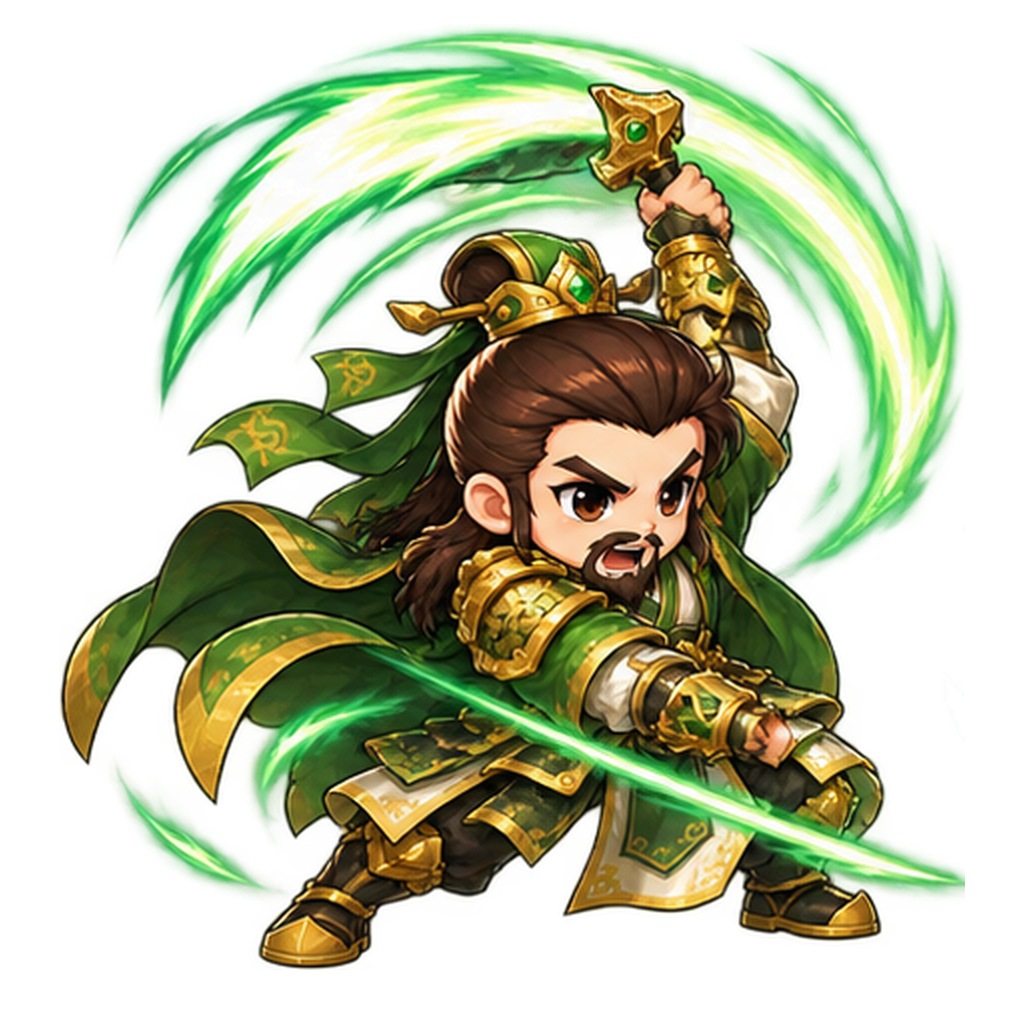
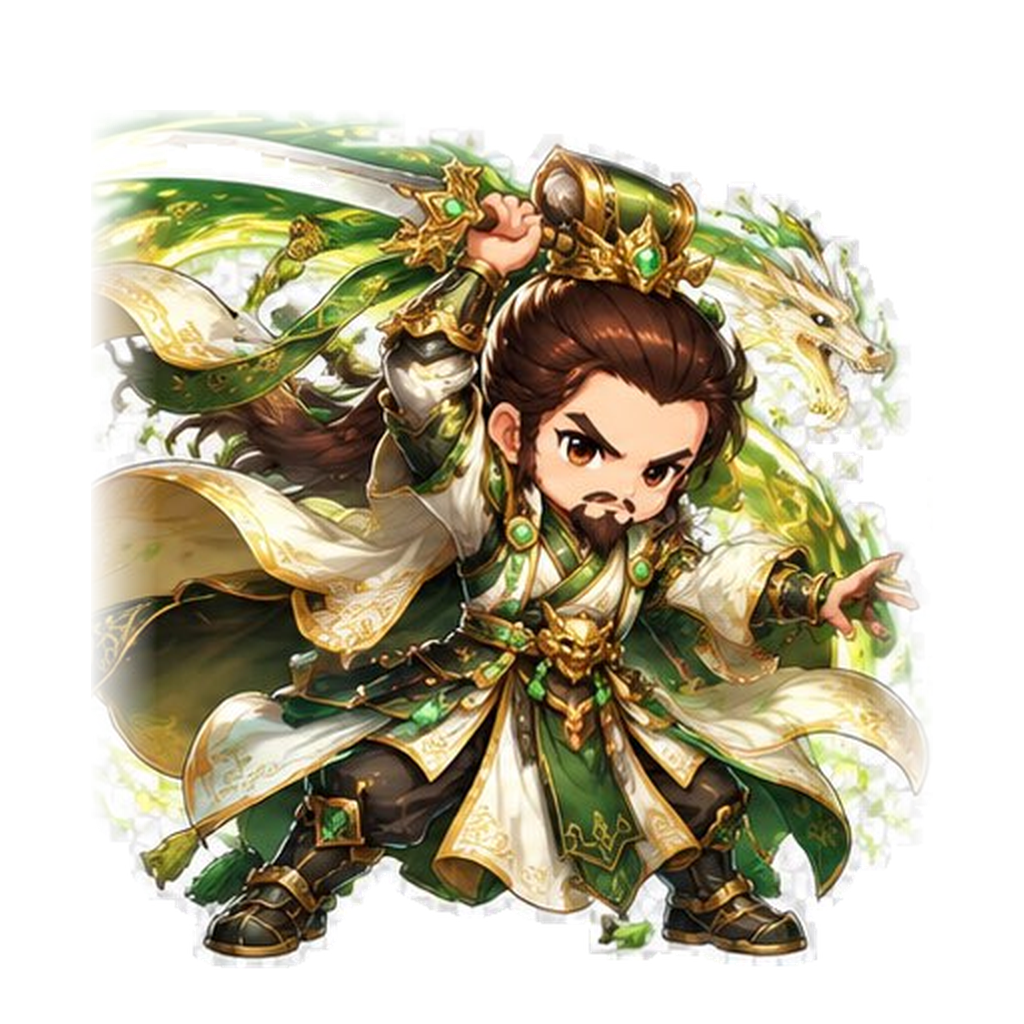
Add Wei strategist animations and refresh Liu Bei art

diff --git a/js/data.js b/js/data.js
@@ -26,5 +26,5 @@ const LEVEL_PACING={
 Object.values(LEVELS).forEach(level=>Object.assign(level,LEVEL_PACING[level.level]));
 const SHU_ATTACK_FRAME_DURATIONS=[80,80,80,80,90,90,90,90];
 const shuAttackFrames=key=>Array.from({length:8},(_,index)=>`assets/characters/future-generals/${key}/attack-${String(index).padStart(2,'0')}.webp`);
-const PLANT_TYPES={peashooter:{name:'蜀軍弓兵',cost:100,emoji:'🏹',asset:'assets/characters/shu-archer.webp',hp:120,rate:1500,damage:22,range:9,cooldown:5200,desc:'基礎遠程射箭'},sunflower:{name:'軍糧官',cost:50,emoji:'🌾',asset:'assets/characters/quartermaster-strategist.webp',hp:90,rate:8500,produce:25,cooldown:4200,desc:'週期補充軍糧'},wallnut:{name:'盾將',cost:50,emoji:'🛡',asset:'assets/characters/shield-general.webp',hp:420,cooldown:7000,desc:'高血量阻擋'},firepea:{name:'關羽火焰將',cost:175,emoji:'🔥',asset:'assets/characters/guanyu-fire-general.webp',battleAsset:'assets/characters/future-generals/guanyu/idle.webp',hp:120,rate:1250,damage:42,range:9,fire:true,cooldown:9500,attackFrames:Array.from({length:8},(_,index)=>`assets/characters/future-generals/guanyu/attack-${String(index).padStart(2,'0')}.webp`),attackFrameDurations:[90,80,100,65,90,65,80,110],attackHitAt:335,desc:'青龍火斬高傷害'},potato:{name:'伏兵',cost:25,emoji:'🥷',asset:'assets/characters/ambush-scout.webp',hp:60,armedAfter:4500,damage:260,cooldown:8500,desc:'延遲啟動突襲陷阱'},zhangfei:{name:'鬥神張飛',cost:225,emoji:'⚔',asset:'assets/characters/future-generals/god-zhangfei.webp',battleAsset:'assets/characters/future-generals/zhangfei/idle.webp',hp:560,rate:2300,damage:62,range:1.15,knockback:1,cooldown:13000,attackFrames:shuAttackFrames('zhangfei'),attackFrameDurations:SHU_ATTACK_FRAME_DURATIONS,attackHitAt:320,desc:'高防高攻，近戰反推一格'},zhaoyun:{name:'寒冰趙雲',cost:175,emoji:'❄',asset:'assets/characters/future-generals/ice-zhaoyun.webp',battleAsset:'assets/characters/future-generals/zhaoyun/idle.webp',hp:210,rate:1350,damage:18,meleeDamage:48,range:9,slow:true,cooldown:10000,attackFrames:Array.from({length:8},(_,index)=>`assets/characters/future-generals/zhaoyun/attack-${String(index).padStart(2,'0')}.webp`),attackFrameDurations:[90,80,100,65,90,65,80,120],attackHitAt:335,desc:'遠程緩速，近距離高傷'},machao:{name:'穿刺馬超',cost:200,emoji:'🗡',asset:'assets/characters/future-generals/pierce-machao.webp',battleAsset:'assets/characters/future-generals/machao/idle.webp',hp:250,rate:1800,damage:78,range:3.1,pierce:true,cooldown:11000,attackFrames:shuAttackFrames('machao'),attackFrameDurations:SHU_ATTACK_FRAME_DURATIONS,attackHitAt:320,desc:'三格穿刺，可同時打多人'},huangzhong:{name:'百箭黃忠',cost:200,emoji:'🏹',asset:'assets/characters/future-generals/hundred-arrows-huangzhong.webp',battleAsset:'assets/characters/future-generals/huangzhong/idle.webp',hp:150,rate:1900,damage:22,range:9,tripleShot:true,cooldown:11500,attackFrames:shuAttackFrames('huangzhong'),attackFrameDurations:SHU_ATTACK_FRAME_DURATIONS,attackHitAt:320,desc:'一次射三排'},kongming:{name:'軍神孔明',cost:250,emoji:'🌪',asset:'assets/characters/future-generals/war-god-kongming.webp',battleAsset:'assets/characters/future-generals/kongming/idle.webp',hp:1,oneUse:'global',damage:150,cooldown:15000,attackFrames:shuAttackFrames('kongming'),attackFrameDurations:SHU_ATTACK_FRAME_DURATIONS,attackHitAt:320,desc:'全地圖一次性高輸出'},pangtong:{name:'火神龐統',cost:175,emoji:'🔥',asset:'assets/characters/future-generals/fire-god-pangtong.webp',battleAsset:'assets/characters/future-generals/pangtong/idle.webp',hp:1,oneUse:'row',damage:230,cooldown:12000,attackFrames:shuAttackFrames('pangtong'),attackFrameDurations:SHU_ATTACK_FRAME_DURATIONS,attackHitAt:320,desc:'三列火攻一次性高輸出'},liubei:{name:'仁德劉備',cost:300,emoji:'👑',asset:'assets/characters/future-generals/liubei/liubei-main.webp',battleAsset:'assets/characters/future-generals/liubei/idle.webp',guideAsset:'assets/characters/future-generals/liubei/liubei-guide.webp',actionAsset:'assets/characters/future-generals/liubei/liubei-rally.webp',hp:330,rate:1800,damage:0,range:9,summon:true,summonRate:6500,cooldown:16000,attackFrames:shuAttackFrames('liubei'),attackFrameDurations:SHU_ATTACK_FRAME_DURATIONS,attackHitAt:320,desc:'普通攻擊召喚一名鄉勇；超級技能召喚上、中、下三路白毦禁衛'},swordSoldier:{name:'蜀軍鄉勇',cost:0,emoji:'⚔',asset:'assets/characters/ambush-scout.webp',hp:95,damage:18,rate:900,range:.55,speed:.018,hidden:true,desc:'劉備普通攻擊召喚的綠衣輕裝兵'},whiteFeatherGuard:{name:'白毦禁衛',cost:0,emoji:'🛡',asset:'assets/characters/shield-general.webp',hp:230,damage:42,rate:750,range:.8,speed:.014,hidden:true,elite:true,desc:'劉備超級技能召喚的紅金重甲精銳盾兵'}};
+const PLANT_TYPES={peashooter:{name:'蜀軍弓兵',cost:100,emoji:'🏹',asset:'assets/characters/shu-archer.webp',hp:120,rate:1500,damage:22,range:9,cooldown:5200,desc:'基礎遠程射箭'},sunflower:{name:'軍糧官',cost:50,emoji:'🌾',asset:'assets/characters/quartermaster-strategist.webp',hp:90,rate:8500,produce:25,cooldown:4200,desc:'週期補充軍糧'},wallnut:{name:'盾將',cost:50,emoji:'🛡',asset:'assets/characters/shield-general.webp',hp:420,cooldown:7000,desc:'高血量阻擋'},firepea:{name:'關羽火焰將',cost:175,emoji:'🔥',asset:'assets/characters/guanyu-fire-general.webp',battleAsset:'assets/characters/future-generals/guanyu/idle.webp',hp:120,rate:1250,damage:42,range:9,fire:true,cooldown:9500,attackFrames:Array.from({length:8},(_,index)=>`assets/characters/future-generals/guanyu/attack-${String(index).padStart(2,'0')}.webp`),attackFrameDurations:[90,80,100,65,90,65,80,110],attackHitAt:335,desc:'青龍火斬高傷害'},potato:{name:'伏兵',cost:25,emoji:'🥷',asset:'assets/characters/ambush-scout.webp',hp:60,armedAfter:4500,damage:260,cooldown:8500,desc:'延遲啟動突襲陷阱'},zhangfei:{name:'鬥神張飛',cost:225,emoji:'⚔',asset:'assets/characters/future-generals/god-zhangfei.webp',battleAsset:'assets/characters/future-generals/zhangfei/idle.webp',hp:560,rate:2300,damage:62,range:1.15,knockback:1,cooldown:13000,attackFrames:shuAttackFrames('zhangfei'),attackFrameDurations:SHU_ATTACK_FRAME_DURATIONS,attackHitAt:320,desc:'高防高攻，近戰反推一格'},zhaoyun:{name:'寒冰趙雲',cost:175,emoji:'❄',asset:'assets/characters/future-generals/ice-zhaoyun.webp',battleAsset:'assets/characters/future-generals/zhaoyun/idle.webp',hp:210,rate:1350,damage:18,meleeDamage:48,range:9,slow:true,cooldown:10000,attackFrames:Array.from({length:8},(_,index)=>`assets/characters/future-generals/zhaoyun/attack-${String(index).padStart(2,'0')}.webp`),attackFrameDurations:[90,80,100,65,90,65,80,120],attackHitAt:335,desc:'遠程緩速，近距離高傷'},machao:{name:'穿刺馬超',cost:200,emoji:'🗡',asset:'assets/characters/future-generals/pierce-machao.webp',battleAsset:'assets/characters/future-generals/machao/idle.webp',hp:250,rate:1800,damage:78,range:3.1,pierce:true,cooldown:11000,attackFrames:shuAttackFrames('machao'),attackFrameDurations:SHU_ATTACK_FRAME_DURATIONS,attackHitAt:320,desc:'三格穿刺，可同時打多人'},huangzhong:{name:'百箭黃忠',cost:200,emoji:'🏹',asset:'assets/characters/future-generals/hundred-arrows-huangzhong.webp',battleAsset:'assets/characters/future-generals/huangzhong/idle.webp',hp:150,rate:1900,damage:22,range:9,tripleShot:true,cooldown:11500,attackFrames:shuAttackFrames('huangzhong'),attackFrameDurations:SHU_ATTACK_FRAME_DURATIONS,attackHitAt:320,desc:'一次射三排'},kongming:{name:'軍神孔明',cost:250,emoji:'🌪',asset:'assets/characters/future-generals/war-god-kongming.webp',battleAsset:'assets/characters/future-generals/kongming/idle.webp',hp:1,oneUse:'global',damage:150,cooldown:15000,attackFrames:shuAttackFrames('kongming'),attackFrameDurations:SHU_ATTACK_FRAME_DURATIONS,attackHitAt:320,desc:'全地圖一次性高輸出'},pangtong:{name:'火神龐統',cost:175,emoji:'🔥',asset:'assets/characters/future-generals/fire-god-pangtong.webp',battleAsset:'assets/characters/future-generals/pangtong/idle.webp',hp:1,oneUse:'row',damage:230,cooldown:12000,attackFrames:shuAttackFrames('pangtong'),attackFrameDurations:SHU_ATTACK_FRAME_DURATIONS,attackHitAt:320,desc:'三列火攻一次性高輸出'},liubei:{name:'仁德劉備',cost:300,emoji:'👑',asset:'assets/characters/future-generals/liubei/liubei-main.webp',battleAsset:'assets/characters/future-generals/liubei/idle.webp',guideAsset:'assets/characters/future-generals/liubei/idle.webp',actionAsset:'assets/characters/future-generals/liubei/liubei-rally.webp',hp:330,rate:1800,damage:0,range:9,summon:true,summonRate:6500,cooldown:16000,attackFrames:shuAttackFrames('liubei'),attackFrameDurations:SHU_ATTACK_FRAME_DURATIONS,attackHitAt:320,desc:'普通攻擊召喚一名鄉勇；超級技能召喚上、中、下三路白毦禁衛'},swordSoldier:{name:'蜀軍鄉勇',cost:0,emoji:'⚔',asset:'assets/characters/ambush-scout.webp',hp:95,damage:18,rate:900,range:.55,speed:.018,hidden:true,desc:'劉備普通攻擊召喚的綠衣輕裝兵'},whiteFeatherGuard:{name:'白毦禁衛',cost:0,emoji:'🛡',asset:'assets/characters/shield-general.webp',hp:230,damage:42,rate:750,range:.8,speed:.014,hidden:true,elite:true,desc:'劉備超級技能召喚的紅金重甲精銳盾兵'}};
 const ZOMBIE_TYPES={normal:{name:'赤巾小屍',cost:50,emoji:'🧟',asset:'assets/characters/zombie-army/zombie-roster-v2/red-band-grunt.webp',hp:110,speed:.018,damage:18,range:.35,cooldown:3600,desc:'赤巾衝鋒的便宜基本兵'},cone:{name:'鐵盔小兵',cost:75,emoji:'🛡',asset:'assets/characters/zombie-army/zombie-roster-v2/iron-helmet-grunt.webp',hp:190,speed:.016,damage:18,range:.35,cooldown:5200,desc:'全身重甲，耐打的前排小兵'},bucket:{name:'巨槌阿蠻',cost:100,emoji:'👹',asset:'assets/characters/zombie-army/zombie-roster-v2/giant-mace-brute.webp',hp:290,speed:.013,damage:20,range:.35,cooldown:6500,desc:'揮舞骷髏巨槌的高血量壯漢'},football:{name:'白髮屍王',cost:200,emoji:'💀',asset:'assets/characters/zombie-army/zombie-roster-v2/white-haired-king.webp',hp:380,speed:.031,damage:34,range:.35,cooldown:11000,desc:'白髮王冠配魔刃，高速突擊菁英'},jester:{name:'鈴鐺丑屍',cost:225,emoji:'🃏',asset:'assets/characters/zombie-army/zombie-roster-v2/bell-jester.webp',hp:360,speed:.015,damage:26,range:.45,laugh:true,laughRate:5200,laughDamage:34,laughStun:2600,cooldown:12500,desc:'搖響鬼鈴狂笑，震懾同一路守方'},bombJester:{name:'爆爆桶屍',cost:250,emoji:'💣',asset:'assets/characters/zombie-army/zombie-roster-v2/bomb-carrier.webp',hp:340,speed:.014,damage:24,range:.45,bombDeath:true,bombDamage:220,bombRadius:1,cooldown:14500,desc:'背滿火藥桶，倒下後九宮格自爆'},corpseTitan:{name:'屍旗大胖',cost:325,emoji:'🏴☠',asset:'assets/characters/zombie-army/zombie-roster-v2/banner-titan.webp',hp:760,speed:.0095,damage:38,range:.58,siegeSmash:true,smashRate:2100,smashDamage:78,smashStun:1400,cooldown:19000,desc:'扛屍旗與巨槌，震碎九宮格防線'},fireCatapult:{name:'烈焰屍車',cost:350,emoji:'☄',asset:'assets/characters/zombie-army/zombie-roster-v2/flame-catapult.webp',hp:620,speed:.0075,damage:24,range:.45,catapult:true,catapultRange:8,catapultRate:3600,catapultDamage:92,catapultSplash:.58,cooldown:22000,desc:'骷髏戰車向左轟出烈焰巨石'},peaZombie:{name:'飛石阿投',cost:100,emoji:'🪨',asset:'assets/characters/zombie-army/zombie-roster-v2/boulder-thrower.webp',hp:95,speed:.013,damage:16,range:4.5,shoot:true,cooldown:7600,desc:'單手舉巨石，遠程飛石攻擊'},poleVault:{name:'蹦蹦飛屍',cost:125,emoji:'🧟♂',asset:'assets/characters/zombie-army/zombie-roster-v2/leaping-raider.webp',spentEmoji:'🧟',spentAsset:'assets/characters/zombie-army/zombie-roster-v2/leaping-raider.webp',hp:140,speed:.034,spentSpeed:.018,damage:18,range:.35,canJump:true,cooldown:8200,desc:'飛撲進場，先快跑並跳過一名守方'},qinEmperor:{name:'始皇屍帝・嬴政',cost:350,emoji:'👑',asset:'assets/characters/zombie-army/zombie-roster-v2/qin-emperor.webp',hp:420,speed:.0105,damage:0,range:.55,summon:true,summonRate:6500,cooldown:20000,desc:'兵馬俑召令召出秦俑屍兵；大秦軍陣改召三路玄甲禁軍'},necromancer:{name:'冥火屍巫',cost:400,emoji:'🔮',asset:'assets/characters/zombie-army/zombie-roster-v2/netherfire-necromancer.webp',hp:500,speed:.009,damage:24,range:.5,curse:true,curseRange:6.5,curseRate:4800,curseDamage:72,curseStun:2200,cooldown:24000,desc:'操縱紫色冥火，遠距施咒傷害並使守方短暫混亂'},terracottaSoldier:{name:'秦俑屍兵',cost:0,emoji:'⚔',asset:'assets/characters/zombie-army/qin-terracotta-soldier.webp',hp:90,speed:.019,damage:16,rate:850,range:.4,hidden:true,desc:'始皇屍帝普通攻擊召喚的秦俑屍兵'},blackArmorGuard:{name:'玄甲禁軍',cost:0,emoji:'🛡',asset:'assets/characters/zombie-army/qin-black-guard.webp',hp:220,speed:.015,damage:40,rate:700,range:.7,hidden:true,elite:true,desc:'始皇屍帝機率技能召喚的黑金重甲禁軍'}};

diff --git a/js/season2-data.js b/js/season2-data.js
@@ -19,9 +19,9 @@ const SEASON2_UNITS={
   s2XuChu:{name:'許褚',cost:185,emoji:'🔨',hp:720,damage:70,rate:2100,range:.9,cooldown:9500,clearRequired:5,battleAsset:'assets/characters/future-generals/wei-season2/xu-chu/idle.webp',guideAsset:'assets/characters/future-generals/wei-season2/xu-chu/idle.webp',attackFrames:Array.from({length:8},(_,index)=>`assets/characters/future-generals/wei-season2/xu-chu/attack-${String(index).padStart(2,'0')}.webp`),attackFrameDurations:[90,80,100,65,150,65,80,100],attackHitAt:335,desc:'虎軀鎮關：高生命重坦，重錘有機率讓一般敵人短暫停步。'},
   s2ZhangLiao:{name:'張遼',cost:180,emoji:'🏇',hp:400,damage:62,rate:1300,range:1.4,cooldown:8500,clearRequired:6,battleAsset:'assets/characters/future-generals/wei-season2/zhang-liao/idle.webp',guideAsset:'assets/characters/future-generals/wei-season2/zhang-liao/idle.webp',attackFrames:Array.from({length:8},(_,index)=>`assets/characters/future-generals/wei-season2/zhang-liao/attack-${String(index).padStart(2,'0')}.webp`),attackFrameDurations:[90,80,100,65,150,65,80,100],attackHitAt:335,desc:'先登破陣：標記首次接戰目標，使同路友軍對它造成更高傷害。'},
   s2XuHuang:{name:'徐晃',cost:190,emoji:'🪓',hp:480,damage:68,rate:1550,range:1.15,cooldown:9000,clearRequired:7,battleAsset:'assets/characters/future-generals/wei-season2/xu-huang/idle.webp',guideAsset:'assets/characters/future-generals/wei-season2/xu-huang/idle.webp',attackFrames:Array.from({length:8},(_,index)=>`assets/characters/future-generals/wei-season2/xu-huang/attack-${String(index).padStart(2,'0')}.webp`),attackFrameDurations:[90,80,100,65,150,65,80,100],attackHitAt:335,desc:'長驅破甲：連續斧擊會逐步提高對同一重裝目標的傷害。'},
-  s2GuoJia:{name:'郭嘉',cost:200,emoji:'📜',hp:240,damage:34,rate:2300,range:6.5,cooldown:10000,clearRequired:8,desc:'料敵先機：遠程策令命中後，延後敵方下一次特殊行動。'},
-  s2SimaYi:{name:'司馬懿',cost:225,emoji:'🦅',hp:300,damage:42,rate:2100,range:7,cooldown:10500,clearRequired:9,desc:'隱忍蓄謀：在場越久謀略越深，最多使自身攻擊提高 60%。'},
-  s2CaoCao:{name:'曹操',cost:250,emoji:'🚩',hp:520,damage:58,rate:1750,range:4.5,cooldown:12000,clearRequired:10,desc:'軍令如山：鼓舞同路魏軍，使一般兵攻擊節奏加快並獲得短暫護盾。'}
+  s2GuoJia:{name:'郭嘉',cost:200,emoji:'📜',hp:240,damage:34,rate:2300,range:6.5,cooldown:10000,clearRequired:8,battleAsset:'assets/characters/future-generals/wei-season2/guo-jia/idle.webp',guideAsset:'assets/characters/future-generals/wei-season2/guo-jia/idle.webp',attackFrames:Array.from({length:8},(_,index)=>`assets/characters/future-generals/wei-season2/guo-jia/attack-${String(index).padStart(2,'0')}.webp`),attackFrameDurations:[90,80,100,65,150,65,80,100],attackHitAt:335,desc:'料敵先機：遠程策令命中後，延後敵方下一次特殊行動。'},
+  s2SimaYi:{name:'司馬懿',cost:225,emoji:'🦅',hp:300,damage:42,rate:2100,range:7,cooldown:10500,clearRequired:9,battleAsset:'assets/characters/future-generals/wei-season2/sima-yi/idle.webp',guideAsset:'assets/characters/future-generals/wei-season2/sima-yi/idle.webp',attackFrames:Array.from({length:8},(_,index)=>`assets/characters/future-generals/wei-season2/sima-yi/attack-${String(index).padStart(2,'0')}.webp`),attackFrameDurations:[90,80,100,65,150,65,80,100],attackHitAt:335,desc:'隱忍蓄謀：在場越久謀略越深，最多使自身攻擊提高 60%。'},
+  s2CaoCao:{name:'曹操',cost:250,emoji:'🚩',hp:520,damage:58,rate:1750,range:4.5,cooldown:12000,clearRequired:10,battleAsset:'assets/characters/future-generals/wei-season2/cao-cao/idle.webp',guideAsset:'assets/characters/future-generals/wei-season2/cao-cao/idle.webp',attackFrames:Array.from({length:8},(_,index)=>`assets/characters/future-generals/wei-season2/cao-cao/attack-${String(index).padStart(2,'0')}.webp`),attackFrameDurations:[90,80,100,65,150,65,80,100],attackHitAt:335,desc:'軍令如山：鼓舞同路魏軍，使一般兵攻擊節奏加快並獲得短暫護盾。'}
  },
  zombies:{
   s2Rat:{name:'鼠牙群屍',cost:45,emoji:'🧟',hp:135,damage:16,rate:750,speed:.015,range:.75,cooldown:2900,desc:'群牙撕咬：同伴一起攻擊同一守軍時傷害 +25%。'},

diff --git a/tests/season2-heavy-generals-animation.spec.js b/tests/season2-heavy-generals-animation.spec.js
@@ -5,6 +5,9 @@ const generals=[
  {key:'s2XuChu',slug:'xu-chu'},
  {key:'s2ZhangLiao',slug:'zhang-liao'},
  {key:'s2XuHuang',slug:'xu-huang'},
+ {key:'s2GuoJia',slug:'guo-jia'},
+ {key:'s2SimaYi',slug:'sima-yi'},
+ {key:'s2CaoCao',slug:'cao-cao'},
 ];
 
 async function open(page){
@@ -12,7 +15,7 @@ async function open(page){
  await page.goto('/');
 }
 
-test('four Wei heavy generals use eight attack frames and land damage on the fifth frame',async({page})=>{
+test('seven Wei generals use eight attack frames and resolve their attack on the fifth frame',async({page})=>{
  await open(page);
  const result=await page.evaluate(keys=>{
   playerProfile.season2Progress.plants={completedLevels:{1:1,2:1,3:1},highestLevel:3};markStoryRead('plants',4,'opening',2);currentSeason=2;selectedLevel=4;start('plants');clearInterval(timer);
@@ -22,11 +25,11 @@ test('four Wei heavy generals use eight attack frames and land damage on the fif
    addPlant(key,2,2);const hero=state.plants.at(-1);const target=addZombie('s2Rat',2.8,2);
    hero.last=0;const before=target.hp;actPlants();render();
    const firstSrc=document.querySelector(`#board .type-${key} .char-img`)?.getAttribute('src');
-   const beforeHit={hp:target.hp,pending:state.pendingHits.length,started:hero.attackStartedAt};
+   const beforeHit={hp:target.hp,pending:state.pendingHits.length,projectiles:state.projectiles.length,started:hero.attackStartedAt};
    const data=SEASON2_UNITS.plants[key];state.time=hero.attackStartedAt+data.attackHitAt;
    processSeason2PendingHits();render();
    const hitSrc=document.querySelector(`#board .type-${key} .char-img`)?.getAttribute('src');
-   out[key]={frames:data.attackFrames,battleAsset:data.battleAsset,before,firstSrc,beforeHit,after:target.hp,hitSrc};
+   out[key]={frames:data.attackFrames,battleAsset:data.battleAsset,before,firstSrc,beforeHit,after:target.hp,projectiles:state.projectiles.length,ranged:data.range>2,hitSrc};
   }
   return out;
  },generals.map(({key})=>key));
@@ -39,8 +42,10 @@ test('four Wei heavy generals use eight attack frames and land damage on the fif
   expect(value.firstSrc).toMatch(/attack-00\.webp$/);
   expect(value.beforeHit.hp).toBe(value.before);
   expect(value.beforeHit.pending).toBe(1);
+  expect(value.beforeHit.projectiles).toBe(0);
   expect(value.beforeHit.started).toBe(3000);
-  expect(value.after).toBeLessThan(value.before);
+  if(value.ranged){expect(value.after).toBe(value.before);expect(value.projectiles).toBe(1)}
+  else{expect(value.after).toBeLessThan(value.before);expect(value.projectiles).toBe(0)}
   expect(value.hitSrc).toMatch(/attack-04\.webp$/);
   for(const src of [value.battleAsset,...value.frames]){
    const response=await page.request.get(new URL(src,page.url()).href);
@@ -52,7 +57,7 @@ test('four Wei heavy generals use eight attack frames and land damage on the fif
 test('updated Wei battle art is also used by the character guide',async({page})=>{
  await open(page);
  const assets=await page.evaluate(()=>{
-  const slugs=['xiahou-dun','dian-wei','xu-chu','zhang-liao','xu-huang'];
+  const slugs=['xiahou-dun','dian-wei','xu-chu','zhang-liao','xu-huang','guo-jia','sima-yi','cao-cao'];
   buildCharacterGrid('wei');
   return slugs.map(slug=>({
    slug,
@@ -69,7 +74,7 @@ test('updated Wei battle art is also used by the character guide',async({page})=
  }
 });
 
-test('four Wei heavy generals have transparent aligned frames in one runtime box',async({page})=>{
+test('seven Wei generals have transparent aligned frames in one runtime box',async({page})=>{
  await open(page);
  const result=await page.evaluate(async keys=>{
   const inspect=async src=>{const image=new Image();image.src=src;await image.decode();const canvas=document.createElement('canvas');canvas.width=image.naturalWidth;canvas.height=image.naturalHeight;const context=canvas.getContext('2d');context.drawImage(image,0,0);const {data,width,height}=context.getImageData(0,0,canvas.width,canvas.height);let opaque=0,bottom=-1;for(let y=0;y<height;y++)for(let x=0;x<width;x++){const alpha=data[(y*width+x)*4+3];if(alpha>8){opaque++;bottom=Math.max(bottom,y)}}return {width,height,opaque,bottom,cornerAlpha:[data[3],data[(width-1)*4+3],data[((height-1)*width)*4+3],data[(height*width-1)*4+3]]}};

diff --git a/css/app.css b/css/app.css
@@ -120,6 +120,7 @@ body[class*="battlefield-"] #board::after{position:absolute;z-index:20;inset:0;d
 .entity.type-s2Xiahou .sprite,.entity.type-s2DianWei .sprite,.entity.type-s2XuChu .sprite,.entity.type-s2ZhangLiao .sprite,.entity.type-s2XuHuang .sprite{width:96px;height:96px;overflow:visible}.entity.type-s2Xiahou .char-img,.entity.type-s2DianWei .char-img,.entity.type-s2XuChu .char-img,.entity.type-s2ZhangLiao .char-img,.entity.type-s2XuHuang .char-img{width:96px!important;height:96px!important;max-width:none;object-fit:contain;filter:drop-shadow(0 6px 5px #000a) drop-shadow(0 0 7px #38bdf866)}.entity.type-s2Xiahou.attacking,.entity.type-s2DianWei.attacking,.entity.type-s2XuChu.attacking,.entity.type-s2ZhangLiao.attacking,.entity.type-s2XuHuang.attacking{animation:none!important;opacity:1!important}.entity.type-s2Xiahou.attacking .sprite,.entity.type-s2DianWei.attacking .sprite,.entity.type-s2XuChu.attacking .sprite,.entity.type-s2ZhangLiao.attacking .sprite,.entity.type-s2XuHuang.attacking .sprite{animation:none!important;transform:none!important}
 .entity.type-firepea .sprite{width:94px;height:94px;overflow:visible}.entity.type-firepea .char-img{width:94px!important;height:94px!important;max-width:none;object-fit:contain;filter:drop-shadow(0 6px 5px #000a) drop-shadow(0 0 8px #22c55e88)}.entity.type-firepea.attacking{animation:none!important;opacity:1!important}.entity.type-firepea.attacking .sprite{animation:none!important;transform:none!important}
 .entity.type-zhaoyun .sprite{width:94px;height:94px;overflow:visible}.entity.type-zhaoyun .char-img{width:94px!important;height:94px!important;max-width:none;object-fit:contain;filter:drop-shadow(0 6px 5px #000a) drop-shadow(0 0 8px #38bdf8aa)}.entity.type-zhaoyun.attacking{animation:none!important;opacity:1!important}.entity.type-zhaoyun.attacking .sprite{animation:none!important;transform:none!important}@media(max-width:720px){.entity.type-s2Xiahou .sprite,.entity.type-s2Xiahou .char-img,.entity.type-s2DianWei .sprite,.entity.type-s2DianWei .char-img,.entity.type-s2XuChu .sprite,.entity.type-s2XuChu .char-img,.entity.type-s2ZhangLiao .sprite,.entity.type-s2ZhangLiao .char-img,.entity.type-s2XuHuang .sprite,.entity.type-s2XuHuang .char-img{width:76px!important;height:76px!important}.entity.type-firepea .sprite,.entity.type-firepea .char-img,.entity.type-zhaoyun .sprite,.entity.type-zhaoyun .char-img{width:74px!important;height:74px!important}.entity.edge-left{margin-left:6px}.entity.edge-right{margin-left:-6px}}
+.entity.type-s2GuoJia .sprite,.entity.type-s2SimaYi .sprite,.entity.type-s2CaoCao .sprite{width:96px;height:96px;overflow:visible}.entity.type-s2GuoJia .char-img,.entity.type-s2SimaYi .char-img,.entity.type-s2CaoCao .char-img{width:96px!important;height:96px!important;max-width:none;object-fit:contain;filter:drop-shadow(0 6px 5px #000a) drop-shadow(0 0 7px #38bdf866)}.entity.type-s2GuoJia.attacking,.entity.type-s2SimaYi.attacking,.entity.type-s2CaoCao.attacking{animation:none!important;opacity:1!important}.entity.type-s2GuoJia.attacking .sprite,.entity.type-s2SimaYi.attacking .sprite,.entity.type-s2CaoCao.attacking .sprite{animation:none!important;transform:none!important}@media(max-width:720px){.entity.type-s2GuoJia .sprite,.entity.type-s2GuoJia .char-img,.entity.type-s2SimaYi .sprite,.entity.type-s2SimaYi .char-img,.entity.type-s2CaoCao .sprite,.entity.type-s2CaoCao .char-img{width:76px!important;height:76px!important}}
 
 /* Primary pause / resume control: high contrast, large touch target, and a central resume action. */
 .game .top-toolbar .pause-action{min-width:142px!important;height:48px!important;padding:0 18px!important;border:3px solid #fef3c7!important;border-radius:16px!important;background:linear-gradient(135deg,#facc15,#f97316)!important;color:#281300!important;font-weight:950!important;letter-spacing:.04em;box-shadow:0 8px 0 #7c2d12,0 13px 24px #0009,0 0 0 4px #facc1538!important;transition:transform .15s,filter .15s,box-shadow .15s}

diff --git a/js/season2-game.js b/js/season2-game.js
@@ -20,6 +20,7 @@ function processSeason2PendingHits(){
   const source=state.plants.find(unit=>unit.id===hit.sourceId&&unit.hp>0);
   const target=state.zombies.find(unit=>unit.id===hit.targetId&&unit.hp>0);
   if(!source||!target)continue;
+  if(hit.projectile){state.projectiles.push({x:source.c+.72,y:source.r+.5,r:source.r,dir:1,damage:hit.damage,from:'plant',speed:.11,targetId:target.id});sfx('shoot');continue}
   target.hp-=hit.damage;attackFx(target,hit.fx||'slash');sfx('hit');flash(target,'重刀命中');
  }
  state.pendingHits=waiting;
@@ -38,8 +39,8 @@ function actSeason2Plants(){
   if(p.type==='s2XuHuang'){p.armorStacks=p.armorTarget===target.id?Math.min(3,(p.armorStacks||0)+1):0;p.armorTarget=target.id;damage=Math.round(damage*(1+p.armorStacks*.18))}
   if(p.type==='s2SimaYi')damage=Math.round(damage*(1+Math.min(.6,(state.time-p.bornAt)/45000*.6)));
   if(p.type==='s2ZhangLiao'){target.breakMarkedUntil=state.time+5000;flash(target,'破陣標記')}
-  if((d.range||0)>2){state.projectiles.push({x:p.c+.72,y:p.r+.5,r:p.r,dir:1,damage,from:'plant',speed:.11,targetId:target.id});sfx('shoot')}
-  else if(d.attackHitAt){state.pendingHits=state.pendingHits||[];state.pendingHits.push({sourceId:p.id,targetId:target.id,damage,at:state.time+d.attackHitAt,fx:'slash'})}
+  if(d.attackHitAt){state.pendingHits=state.pendingHits||[];state.pendingHits.push({sourceId:p.id,targetId:target.id,damage,at:state.time+d.attackHitAt,fx:'slash',projectile:(d.range||0)>2})}
+  else if((d.range||0)>2){state.projectiles.push({x:p.c+.72,y:p.r+.5,r:p.r,dir:1,damage,from:'plant',speed:.11,targetId:target.id});sfx('shoot')}
   else{target.hp-=damage;attackFx(target,'slash');sfx('hit')}
  }
 }

diff --git a/tests/shu-hero-animations.spec.js b/tests/shu-hero-animations.spec.js
@@ -92,3 +92,19 @@ test('six Shu battle idle images match their opening and closing attack footprin
   expect(Math.abs(frames.idle.bottom-frame.bottom)/frame.canvasHeight,key).toBeLessThan(.025);
  }
 });
+
+test('Liu Bei uses the updated idle artwork in battle and the character guide',async({page})=>{
+ await open(page);
+ const assets=await page.evaluate(()=>{
+  buildCharacterGrid('plants');
+  return {
+   battle:PLANT_TYPES.liubei.battleAsset,
+   guide:guideV2Model('plants','liubei').asset,
+   card:document.querySelector('#characterGrid .type-liubei img')?.getAttribute('src'),
+  };
+ });
+ const expected='assets/characters/future-generals/liubei/idle.webp';
+ expect(assets).toEqual({battle:expected,guide:expected,card:expected});
+ const response=await page.request.get(new URL(expected,page.url()).href);
+ expect(response.ok()).toBe(true);
+});

diff --git a/scripts/extract_shu_hero_attacks.py b/scripts/extract_shu_hero_attacks.py
@@ -7,9 +7,12 @@ from low-alpha valleys instead of blindly slicing equal rectangles.
 """
 from pathlib import Path
 from collections import deque
+import hashlib
 
 import numpy as np
 from PIL import Image
+
+from extract_wei_heavy_attacks import checkerboard_alpha, keep_main_component
 
 ROOT = Path(__file__).resolve().parents[1]
 ASSET_ROOT = ROOT / "assets/characters/future-generals"
@@ -17,6 +20,7 @@ CANVAS_SIZE = 1024
 BASELINE = 970
 FRAME_SCALE = 2.0
 ALPHA_THRESHOLD = 8
[1 lines of base64/hex data omitted]
 
 HEROES = {
     "machao": ASSET_ROOT / "pierce-machao.webp",
@@ -122,8 +126,78 @@ def split_sheet(sheet, key):
     return frames
 
 
+def fade_edge(image, edge, width=36):
+    rgba = np.asarray(image).copy()
+    if edge in ("left", "right"):
+        width = min(width, rgba.shape[1])
+        fade = np.linspace(0.0, 1.0, width, dtype=np.float32)
+        if edge == "right":
+            fade = fade[::-1]
+        section = slice(0, width) if edge == "left" else slice(-width, None)
+        rgba[:, section, 3] = np.rint(rgba[:, section, 3] * fade).astype(np.uint8)
+    elif edge == "top":
+        width = min(width, rgba.shape[0])
+        fade = np.linspace(0.0, 1.0, width, dtype=np.float32)[:, None]
+        rgba[:width, :, 3] = np.rint(rgba[:width, :, 3] * fade).astype(np.uint8)
+    return Image.fromarray(rgba, "RGBA")
+
+
+def clear_and_fade_edge(image, edge, clear=18, fade_width=36):
+    rgba = np.asarray(image).copy()
+    if edge in ("left", "right"):
+        clear = min(clear, rgba.shape[1])
+        fade_width = min(fade_width, rgba.shape[1] - clear)
+        if edge == "left":
+            rgba[:, :clear, 3] = 0
+            fade = np.linspace(0.0, 1.0, fade_width, dtype=np.float32)
+            rgba[:, clear:clear + fade_width, 3] = np.rint(rgba[:, clear:clear + fade_width, 3] * fade).astype(np.uint8)
+        else:
+            rgba[:, -clear:, 3] = 0
+            fade = np.linspace(1.0, 0.0, fade_width, dtype=np.float32)
+            rgba[:, -(clear + fade_width):-clear, 3] = np.rint(rgba[:, -(clear + fade_width):-clear, 3] * fade).astype(np.uint8)
+    else:
+        clear = min(clear, rgba.shape[0])
+        fade_width = min(fade_width, rgba.shape[0] - clear)
+        rgba[:clear, :, 3] = 0
+        fade = np.linspace(0.0, 1.0, fade_width, dtype=np.float32)[:, None]
+        rgba[clear:clear + fade_width, :, 3] = np.rint(rgba[clear:clear + fade_width, :, 3] * fade).astype(np.uint8)
+    return Image.fromarray(rgba, "RGBA")
+
+
+def split_liubei_jpeg(sheet):
+    width, height = sheet.size
+    xs = [round(index * width / 4) for index in range(5)]
+    ys = [0, round(height / 2), height]
+    frames = []
+    for index in range(8):
+        row, column = divmod(index, 4)
+        left_extension = 40 if index == 1 else 0
+        crop = sheet.crop((max(0, xs[column] - left_extension), ys[row], xs[column + 1], ys[row + 1]))
+        rgba = crop.convert("RGBA")
+        rgba.putalpha(checkerboard_alpha(crop))
+        rgba = keep_main_component(rgba)
+        if index in (4, 5, 6):
+            rgba = fade_edge(rgba, "left")
+        if index in (3, 4, 5, 6):
+            rgba = fade_edge(rgba, "right")
+        if index in (2, 4, 5):
+            rgba = clear_and_fade_edge(rgba, "top", 12, 36)
+        if index == 2:
+            rgba = fade_edge(rgba, "left")
+            rgba = clear_and_fade_edge(rgba, "right", 18, 36)
+        if index == 6:
+            rgba = clear_and_fade_edge(rgba, "top", 24, 40)
+        if index == 7:
+            rgba = clear_and_fade_edge(rgba, "left", 24, 36)
+        box = visible_box(rgba)
+        if not box:
+            raise RuntimeError("Detected an empty Liu Bei animation cell")
+        frames.append(rgba.crop(box))
+    return frames
+
+
 def build_idle(idle_source, output_dir, target_height):
-    image = Image.open(idle_source).convert("RGBA")
+    image = idle_source.convert("RGBA") if isinstance(idle_source, Image.Image) else Image.open(idle_source).convert("RGBA")
     box = visible_box(image)
     if not box:
         raise RuntimeError(f"Idle source has no visible pixels: {idle_source}")
@@ -139,9 +213,15 @@ def build_idle(idle_source, output_dir, target_height):
 def main():
     for key, idle_source in HEROES.items():
         output_dir = ASSET_ROOT / key
-        source = output_dir / "source-attack-sheet.png"
-        sheet = Image.open(source).convert("RGBA")
-        frames = split_sheet(sheet, key)
+        if key == "liubei":
+            source = output_dir / "source-attack-sheet.jpg"
+            if hashlib.sha256(source.read_bytes()).hexdigest() != LIUBEI_SOURCE_SHA256:
+                raise RuntimeError("Unexpected Liu Bei source image")
+            frames = split_liubei_jpeg(Image.open(source).convert("RGB"))
+        else:
+            source = output_dir / "source-attack-sheet.png"
+            sheet = Image.open(source).convert("RGBA")
+            frames = split_sheet(sheet, key)
         rendered = []
         for index, crop in enumerate(frames):
             frame = paste_aligned(crop)
@@ -152,7 +232,7 @@ def main():
             box = visible_box(frame)
             edge_heights.append(box[3] - box[1])
         target_height = round(sum(edge_heights) / len(edge_heights))
-        build_idle(idle_source, output_dir, target_height)
+        build_idle(frames[0] if key == "liubei" else idle_source, output_dir, target_height)
         print(f"{key}: 8 frames, idle visible height {target_height}px")
 
 

diff --git a/scripts/extract_wei_heavy_attacks.py b/scripts/extract_wei_heavy_attacks.py
@@ -25,10 +25,14 @@ EXPECTED = {
[6 lines of base64/hex data omitted]
 }
 FRAME_BOUNDS = {
     "xu-chu": {2: (-65, 20)},
     "xu-huang": {2: (-20, 0)},
+    "sima-yi": {1: (-40, 0)},
 }
 LEFT_EDGE_CLEAR = {
     ("dian-wei", 6): 30,
@@ -37,6 +41,7 @@ LEFT_EDGE_CLEAR = {
     ("zhang-liao", 5): 30,
     ("xu-huang", 3): 30,
     ("xu-huang", 5): 30,
+    ("guo-jia", 5): 20,
 }
 RIGHT_EDGE_FADE = {
     ("xu-chu", 2),
@@ -45,7 +50,12 @@ RIGHT_EDGE_FADE = {
     ("xu-huang", 2),
     ("xu-huang", 4),
 }
-TOP_EDGE_CLEAR = {("xu-huang", 6): 36}
+TOP_EDGE_CLEAR = {
+    ("xu-huang", 6): 36,
+    ("guo-jia", 6): 20,
+    ("sima-yi", 6): 20,
+    ("cao-cao", 6): 20,
+}
 
 
 def sha256(path: Path) -> str:
